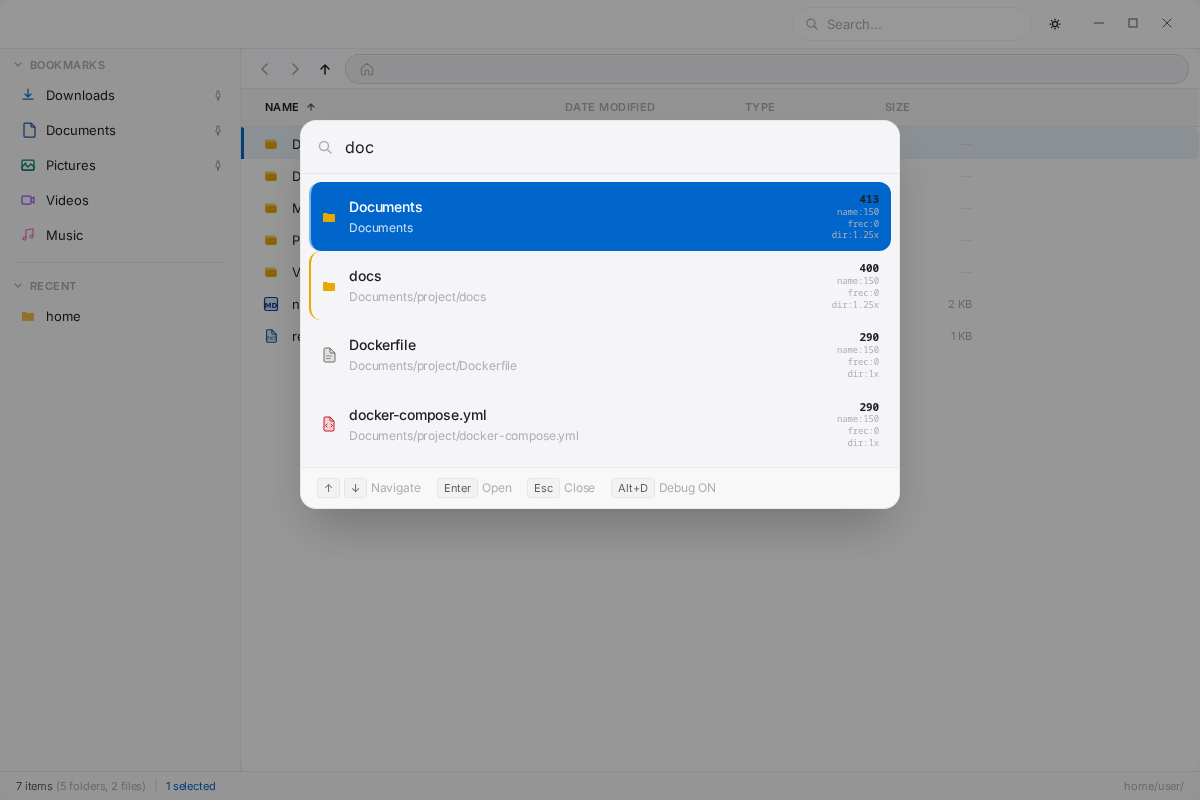
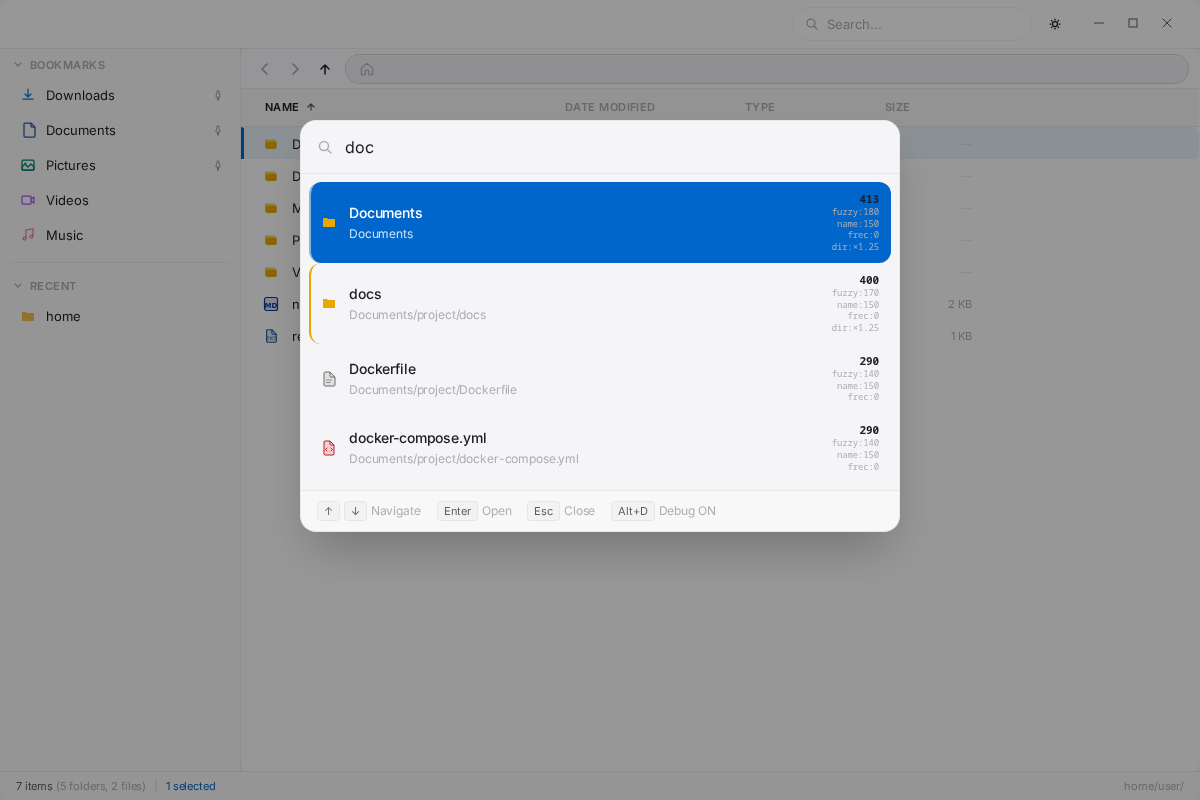
fix: show base fuzzy score in QuickOpen debug breakdown
The debug breakdown was missing the backend fuzzy match score,
which explains ranking differences not visible from name/frecency
alone. Now shows: fuzzy (backend), name (filename match bonus),
frec (frecency), dir (×1.25 multiplier, only for directories).

Changed region(s): [[0.2467, 0.25, 0.7708, 0.6875]]

diff --git a/src/lib/components/QuickOpen.svelte b/src/lib/components/QuickOpen.svelte
@@ -498,13 +498,15 @@
                   {@const nameScore = filenameMatchScore(result.name, qLower)}
                   {@const frecency = frecencyStore.getScoreMap().get(result.path) ?? 0}
                   {@const frecencyPts = Math.round(frecency * FRECENCY_WEIGHT)}
-                  {@const dirBonus = result.kind === "directory" ? "1.25x" : "1x"}
+                  {@const baseScore = Math.round(result.score - frecencyPts - nameScore)}
+                  {@const dirMult = result.kind === "directory" ? 1.25 : 1}
                   {@const effective = Math.round(effectiveScore(result))}
                   <span class="debug-breakdown" title={result.path}>
                     <span class="debug-row"><b>{effective}</b></span>
+                    <span class="debug-row">fuzzy:{baseScore}</span>
                     <span class="debug-row">name:{nameScore}</span>
                     <span class="debug-row">frec:{frecencyPts}</span>
-                    <span class="debug-row">dir:{dirBonus}</span>
+                    {#if dirMult !== 1}<span class="debug-row">dir:×{dirMult}</span>{/if}
                   </span>
                 {:else if result.kind === "directory"}
                   <span class="result-kind">folder</span>
